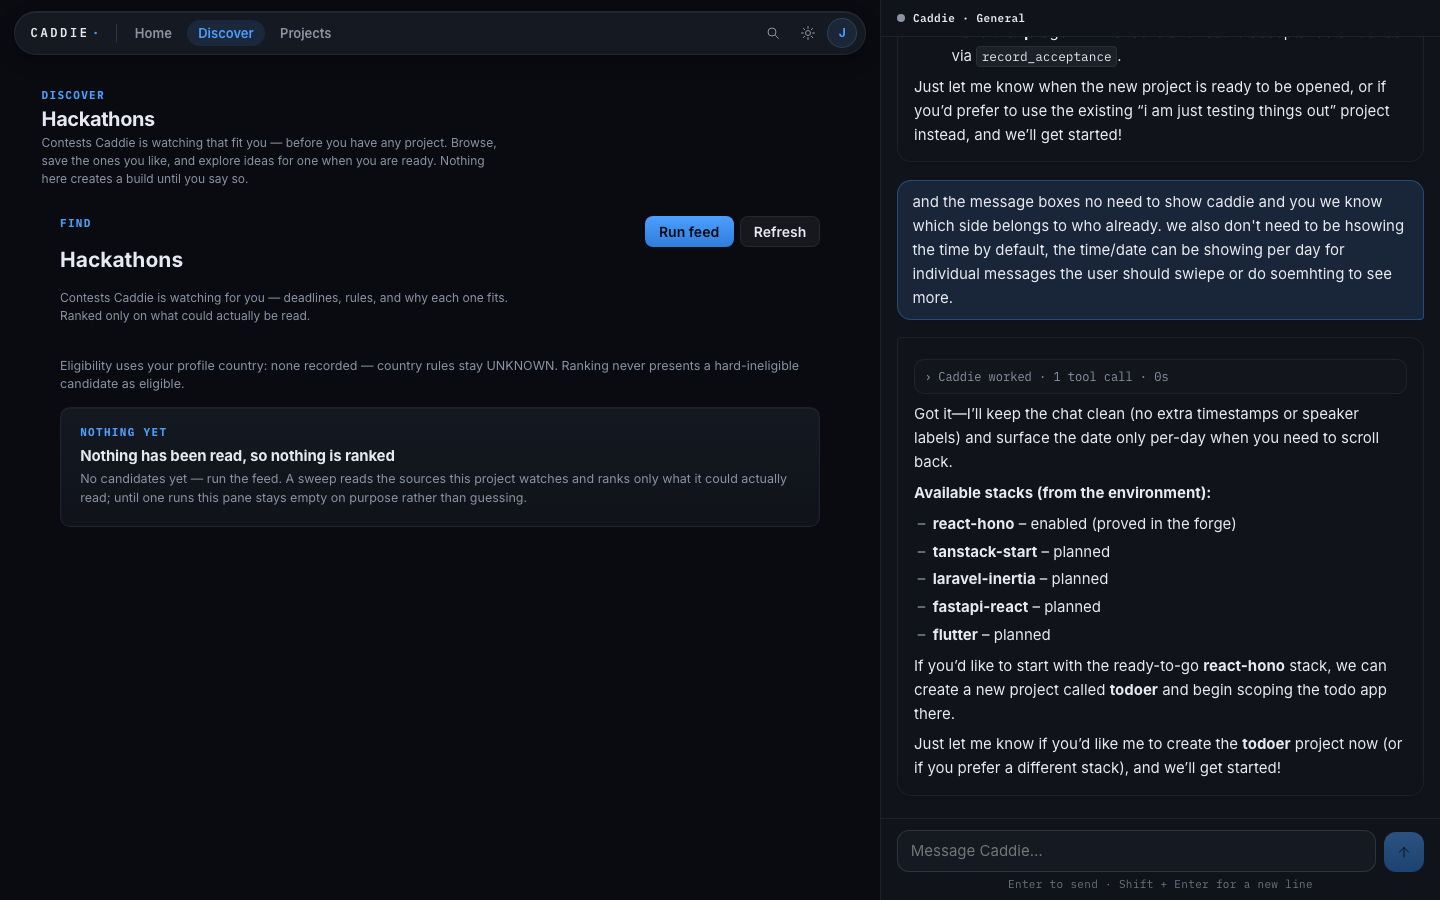
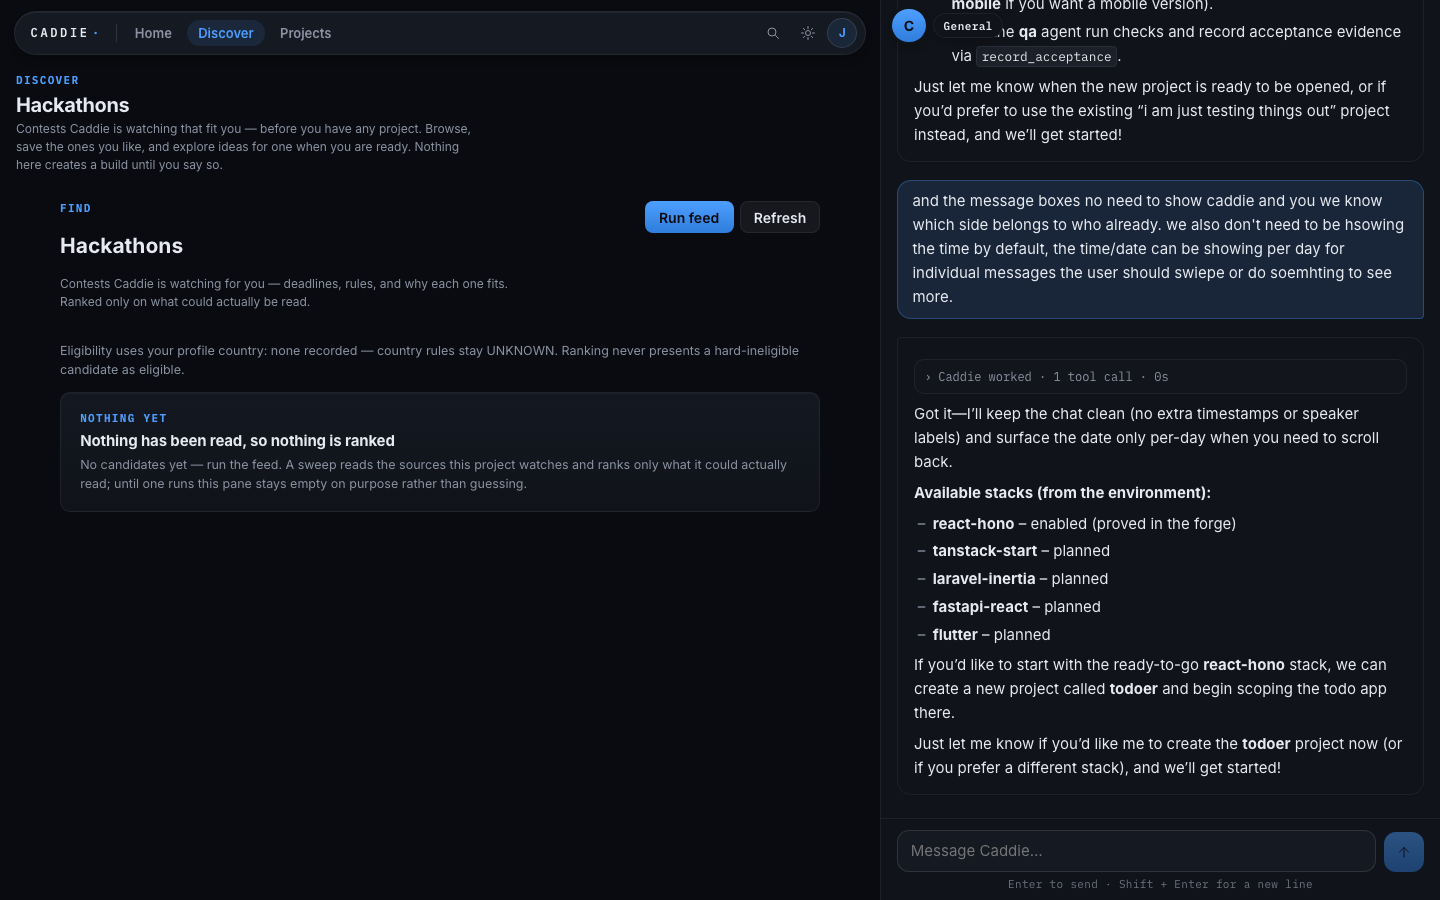
feat(ui): conversation head — left-aligned Caddie mark, scope pill, ours not today's
Owner correction: keep the floating treatment, drop the centered-copy.
The head is now a slim left-aligned row over the transcript: the Caddie
mark (placeholder 'C' at chip size, 34px — same as the actions to its
right) with the conversation-scope pill beside it ('General' = the
account-level chat; the project's name inside a project). Mobile keeps
the Search/Account chips on the right; desktop leaves actions to the
capsule. Transcript clearance tightened to match the slimmer head.

diff --git a/apps/app/src/client/workspace.css b/apps/app/src/client/workspace.css
@@ -646,6 +646,11 @@ a.btn-ghost.topbar-nav-link {
 	min-height: 0;
 }
 
+/* The floating conversation head overlays the top of the transcript. */
+.shell-right .transcript {
+	padding-top: 3.2rem;
+}
+
 /* mobile: one pane + a floating bottom bar (today.ai grammar — the composer
    sits directly above the five nav items, everything flush inside one
    rounded container). The bar is fixed so it rides every mobile route; the
@@ -2471,39 +2476,102 @@ a.btn-ghost.topbar-nav-link {
 	filter: brightness(1.08);
 }
 
-/* --- right-panel conversation context label --------------------------------- */
+/* --- right-panel conversation head (Today.ai grammar) ------------------------
+   No header bar: the agent avatar + name/scope pill float over the
+   transcript; on mobile the Search and Account chips float top-right.
+   Content scrolls underneath — the head is pointer-transparent except for
+   its own controls. */
+.shell-right {
+	position: relative;
+}
 
-.conv-context {
+.conv-head-float {
+	position: absolute;
+	top: 0.55rem;
+	left: 0.7rem;
+	right: 0.7rem;
+	z-index: 6;
 	display: flex;
 	align-items: center;
+	justify-content: space-between;
 	gap: 0.5rem;
-	padding: 0.7rem 1rem;
-	border-bottom: 1px solid var(--color-line-soft);
+	pointer-events: none;
+}
+
+/* The Caddie mark: chip-sized (same as the actions to its right) — a
+   placeholder until the real logo lands. */
+.conv-avatar {
+	width: 2.1rem;
+	height: 2.1rem;
+	border-radius: 50%;
+	background: linear-gradient(180deg, var(--color-action), var(--color-action-deep));
+	color: var(--color-ink);
+	display: grid;
+	place-items: center;
+	font-size: 14px;
+	font-weight: 700;
+	box-shadow:
+		0 0 0 3px var(--color-panel),
+		0 6px 16px rgb(0 0 0 / 0.3);
+}
+
+.conv-head-left {
+	display: flex;
+	align-items: center;
+	gap: 0.45rem;
+	pointer-events: auto;
+	min-width: 0;
+}
+
+/* The scope pill: which conversation you are in — "General" (account-level)
+   or the project's name. */
+.conv-name-pill {
 	font-family: var(--font-mono);
 	font-size: var(--r-label);
 	letter-spacing: 0.04em;
-	color: var(--color-muted);
-}
-
-.conv-context-dot {
-	width: 8px;
-	height: 8px;
-	border-radius: 999px;
-	background: var(--color-action);
-	flex: none;
-}
-
-.conv-context[data-scope='general'] .conv-context-dot {
-	background: var(--color-muted);
-}
-
-.conv-context-label {
-	color: var(--color-bright);
 	font-weight: 600;
+	color: var(--color-bright);
+	background: var(--color-panel);
+	border: 1px solid var(--color-line-soft);
+	border-radius: 999px;
+	padding: 0.28rem 0.6rem;
+	box-shadow: 0 4px 12px rgb(0 0 0 / 0.25);
+	white-space: nowrap;
+	overflow: hidden;
+	text-overflow: ellipsis;
 }
 
-.conv-close {
-	margin-left: auto;
+.conv-head-chips {
+	display: flex;
+	align-items: center;
+	gap: 0.45rem;
+	pointer-events: auto;
+}
+
+.conv-chip {
+	width: 2.1rem;
+	height: 2.1rem;
+	border-radius: 50%;
+	display: grid;
+	place-items: center;
+	background: var(--color-panel);
+	border: 1px solid var(--color-line-soft);
+	color: var(--color-muted);
+	text-decoration: none;
+	box-shadow: 0 4px 12px rgb(0 0 0 / 0.25);
+}
+
+.conv-chip:hover {
+	color: var(--color-action);
+}
+
+.conv-head-chips .account-menu .avatar-btn {
+	width: 2.1rem;
+	height: 2.1rem;
+	border-radius: 50%;
+	background: var(--color-panel);
+	border: 1px solid var(--color-line-soft);
+	box-shadow: 0 4px 12px rgb(0 0 0 / 0.25);
 }
 
 /* --- project-local destination tabs ----------------------------------------- */

diff --git a/apps/app/src/client/workspace/Chrome.tsx b/apps/app/src/client/workspace/Chrome.tsx
@@ -418,20 +418,27 @@ export function WorkspaceChrome(props: WorkspaceChromeProps): ReactElement {
 						data-open={mobileConversation && !isDesktop ? 'true' : 'false'}
 						aria-label="Caddie conversation"
 					>
-							<div className="conv-context" data-testid="conv-context" data-scope={conversationKind}>
-								<span className="conv-context-dot" aria-hidden="true" />
-								<span className="conv-context-label" data-testid="conv-context-label">
-									Caddie · {conversationLabel}
+							{/* Floating conversation head — Today-inspired but our own: a slim
+						    left-aligned row over the transcript. The Caddie mark sits
+						    top-left at chip size; the pill beside it is the conversation
+						    scope (General = the account-level chat; a project name inside
+						    a project). Mobile gets the Search/Account chips on the right. */}
+							<div className="conv-head-float" data-testid="conv-context" data-scope={conversationKind}>
+								<span className="conv-head-left">
+									<span className="conv-avatar" aria-hidden="true">
+										C
+									</span>
+									<span className="conv-name-pill" data-testid="conv-context-label" title="The conversation you are in — General is your account-level chat with Caddie">
+										{conversationLabel}
+									</span>
 								</span>
 								{!isDesktop ? (
-									<button
-										type="button"
-										className="conv-close btn-ghost"
-										data-testid="conversation-close"
-										onClick={() => setMobileConversation(false)}
-									>
-										Back
-									</button>
+									<span className="conv-head-chips">
+										<Link to="/search" className="conv-chip" data-testid="conv-search" title="Search" search={keepSearch}>
+											<Icon name="search" title="Search" />
+										</Link>
+										<AccountMenu accountOpen={accountOpen} setAccountOpen={setAccountOpen} displayName={displayName.data ?? null} />
+									</span>
 								) : null}
 							</div>
 							<Channel

diff --git a/tests/browser/workspace.spec.ts b/tests/browser/workspace.spec.ts
@@ -242,7 +242,7 @@ test.describe('discovery-first workspace shell (composed build)', () => {
 		// The persistent conversation is present and bound to the account scope.
 		await expect(page.getByTestId('conversation-panel')).toBeVisible();
 		await expect(page.getByTestId('conv-context')).toHaveAttribute('data-scope', 'general');
-		await expect(page.getByTestId('conv-context-label')).toContainText('Caddie · General');
+		await expect(page.getByTestId('conv-context-label')).toContainText('General');
 		await context.close();
 	});
 
@@ -568,7 +568,10 @@ test.describe('discovery-first workspace shell (composed build)', () => {
 		await page.getByTestId('composer-input').fill('hello caddie');
 		await page.getByTestId('composer-send').click();
 		await expect(page).toHaveURL(/pane=channel/);
-		await expect(page.getByTestId('conversation-close')).toBeVisible();
+		// The floating conversation head serves as the context indicator; tabs
+		// navigate away (no Back button in the Today grammar).
+		await expect(page.getByTestId('conv-context')).toBeVisible();
+		await expect(page.getByTestId('conv-context-label')).toContainText('Caddie ·');
 		await context.close();
 	});
 

diff --git a/tests/browser/discovery.spec.ts b/tests/browser/discovery.spec.ts
@@ -378,7 +378,7 @@ test.describe('Discovery-first: account-level Discover (composed build, stubbed 
 		// No profile country on record → honest UNKNOWN, never a guess.
 		await expect(page.getByText('none recorded — country rules stay UNKNOWN')).toBeVisible();
 		// The persistent conversation stays on the GENERAL (account) scope here.
-		await expect(page.getByTestId('conv-context-label')).toContainText('Caddie · General');
+		await expect(page.getByTestId('conv-context-label')).toContainText('General');
 		await context.close();
 	});
 

diff --git a/docs/plans/2026-10-03-fresh-build/execution-ledger.md b/docs/plans/2026-10-03-fresh-build/execution-ledger.md
@@ -877,3 +877,25 @@ Status, evidence, review verdicts and integrated SHA. Planning-only rows say NOT
   ]
 }
 ```
+
+```json
+{
+  "packet": "UI-CHAT-HEAD-2 (owner correction: not a today.ai copy — keep the floating head, Caddie mark top-LEFT at chip size, scope pill beside it, actions right)",
+  "status": "LOCAL VERIFIED",
+  "sha": "see git log feat(ui): conversation head — left-aligned mark",
+  "commands": [
+    {"command": "bun run typecheck && bun run build", "exitCode": 0, "receipt": "composed 0 collisions"},
+    {"command": "geometry probe 390/1440 + playwright suites", "exitCode": 0, "receipt": "mark 34px at left 11 (chip-sized, symmetric with the right chips at 11), scope pill 'General' beside it (70x25), chips mobile-only, no overflow; 28 browser tests pass"},
+    {"command": "screenshots re-captured", "exitCode": 0, "receipt": "mobile-chat, desktop-home, desktop-discover"}
+  ],
+  "artifacts": [
+    {"path": "apps/app/src/client/workspace/Chrome.tsx + workspace.css", "note": "floating head is a slim left-aligned row: Caddie mark (placeholder until the real logo) + scope pill ('General' = account-level chat; project name inside a project) + mobile-only chips; transcript clearance 3.2rem"},
+    {"path": "tests/browser/workspace.spec.ts + discovery.spec.ts", "note": "label assertions updated to the scope-only pill"}
+  ],
+  "environment": "local vite dev :5176, minted session cookie (in-memory only)",
+  "providerCalls": "none",
+  "specReview": "owner visual acceptance pending",
+  "qualityReview": "owner direction applied verbatim: floating kept, mark moved left, chip-sized",
+  "limitations": ["the C mark is a placeholder until a real logo exists"]
+}
+```
